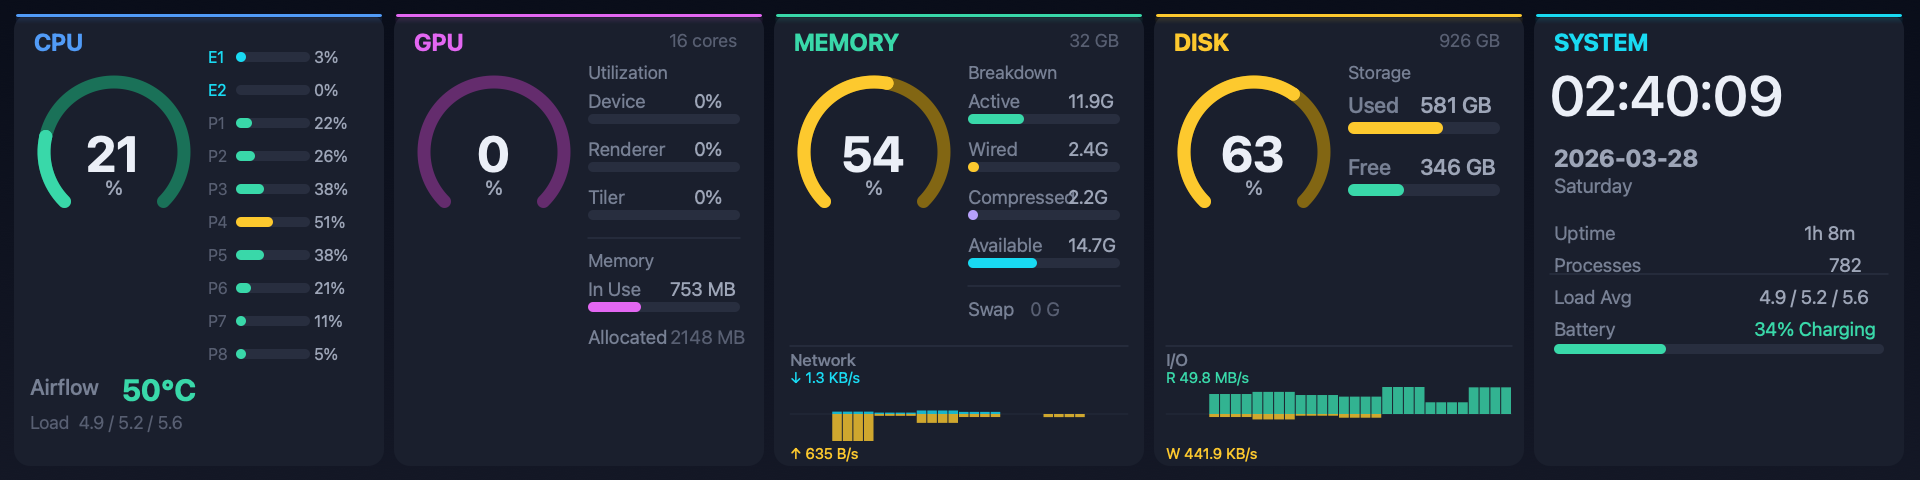
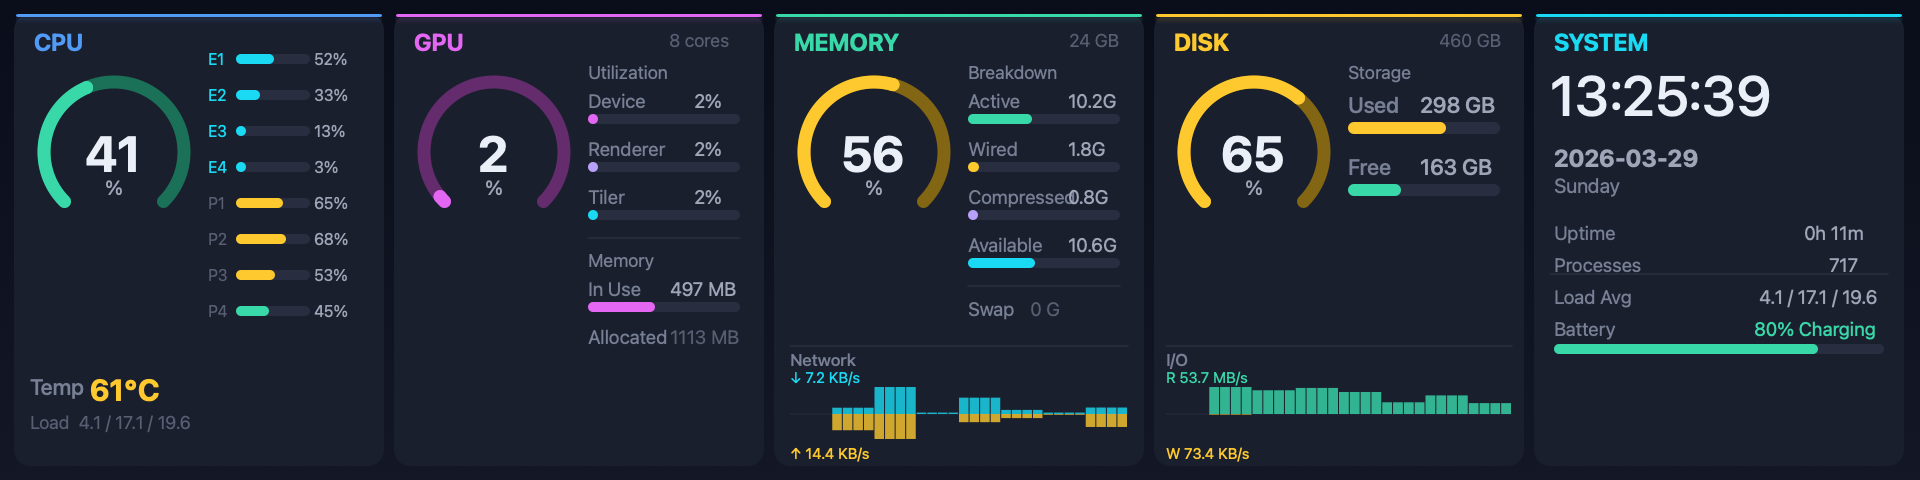
v1.2.0: Fix CLI flag --no-rotate → --rotate, update screenshot

diff --git a/Sources/MacTR/App/MacTRApp.swift b/Sources/MacTR/App/MacTRApp.swift
@@ -301,7 +301,7 @@ private func runCLI() {
     let args = CommandLine.arguments
     let isTest = args.contains("--test")
     let brightness = parseFlag(args, flag: "-b") ?? 5
-    let rotate = !args.contains("--no-rotate")
+    let rotate = args.contains("--rotate")
 
     log("[*] MacTR CLI — \(isTest ? "USB Test" : "System Monitor")")
     log("[*] Brightness: level \(brightness) (\(Brightness.factor(for: brightness))x), Rotate: \(rotate)")

diff --git a/README.ko.md b/README.ko.md
@@ -74,6 +74,7 @@ swift build -c release
 
 ```bash
 ./MacTR --cli                    # LCD에 시스템 모니터 표시
+./MacTR --cli --rotate           # 180° 회전 활성화
 ./MacTR --cli --test             # USB 연결 테스트
 ./MacTR --cli -b 7              # 밝기 7단계
 ```
@@ -120,7 +121,7 @@ USB 통신은 [thermalright-trcc-linux](https://github.com/Lexonight1/thermalrig
 ### v1.2.0 (2026-03-29)
 - 설정 > Display에 180° 회전 토글 추가 (화면이 뒤집혀 보이는 하드웨어 대응)
 - 온도 라벨 "Airflow" → "Temp" 변경 (팬 없는 맥북에어 등 고려)
-- CLI: `--no-rotate` 플래그 지원
+- CLI: `--rotate` 플래그로 180° 회전 활성화
 
 ### v1.1.1 (2026-03-28)
 - 수정: 디스크 언마운트(DMG 추출 등) 시 Disk I/O 산술 오버플로우 크래시

diff --git a/README.md b/README.md
@@ -74,6 +74,7 @@ Runs as a menu bar app. Click the display icon to see connection status, open Se
 
 ```bash
 ./MacTR --cli                    # System monitor on LCD
+./MacTR --cli --rotate           # Enable 180° rotation
 ./MacTR --cli --test             # USB connection test
 ./MacTR --cli -b 7              # Set brightness level 7
 ```
@@ -112,7 +113,7 @@ Runs as a menu bar app. Click the display icon to see connection status, open Se
 ### v1.2.0 (2026-03-29)
 - Add 180° rotation toggle in Settings > Display for displays with inverted orientation
 - Rename temperature label from "Airflow" to "Temp"
-- CLI: `--no-rotate` flag support
+- CLI: `--rotate` flag to enable 180° rotation
 
 ### v1.1.1 (2026-03-28)
 - Fix: Disk I/O arithmetic overflow crash when disks are unmounted (e.g. DMG eject)
